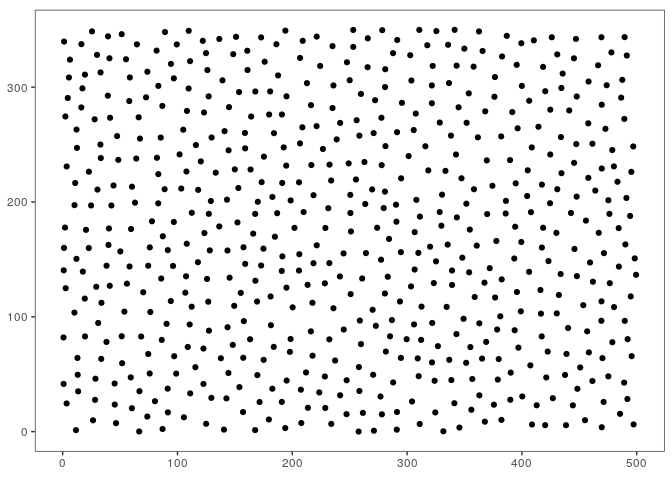
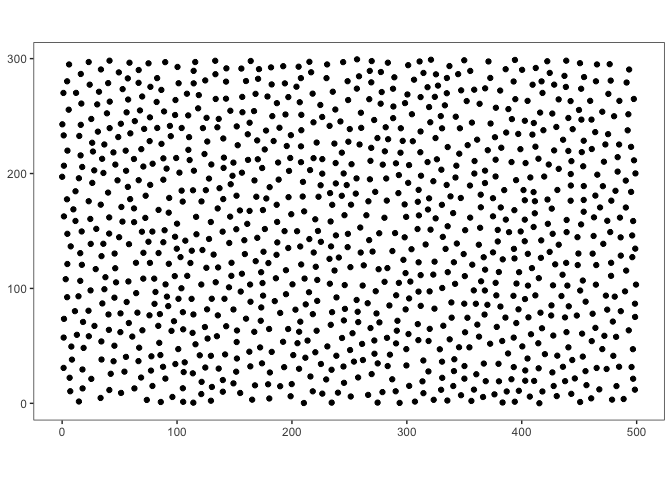
change poisson2d() call parameters to w/h/r instead of ncol/nrow/cellsize

diff --git a/README.md b/README.md
@@ -38,8 +38,8 @@ devtools::install_github("coolbutuseless/poissoned")
 library(poissoned)
 
 set.seed(1)
-points <- poissoned::poisson2d(ncols = 50, nrows = 35, cell_size = 10, verbosity = 1)
-#> poisson2d(): 500x350, minimum distance = 14.14
+points <- poissoned::poisson2d(w = 500, h = 300, r = 10, verbosity = 1)
+#> poisson2d(): 500x300, minimum distance = 10
 
 ggplot(points) +
   geom_point(aes(x, y)) +
@@ -52,32 +52,3 @@ ggplot(points) +
 ```
 
 <img src="man/figures/README-example-1.png" width="100%" />
-
-# Point discovery order
-
-New points are generated through an iterative process. `poisson2d()` can
-return the order in which points were generated using the `keep_idx`
-argument.
-
-It is also possible to pass in the seed point to initialise the process.
-If a seed point is not given, then a random point will be chosen.
-
-``` r
-points <- poissoned::poisson2d(ncols = 120, nrows = 80, cell_size = 10, 
-                                  xinit = 600, yinit = 400,
-                                  keep_idx = TRUE, verbosity = 1)
-#> poisson2d(): 1200x800, minimum distance = 14.14
-
-nrow(points)
-#> [1] 3257
-
-ggplot(points) +
-  geom_point(aes(x, y, colour = idx)) +
-  theme_void() +
-  coord_fixed() +
-  theme(legend.position = 'none') +
-  scale_color_viridis_c() +
-  labs(title = "Seed point at centre. Points coloured by discovery order.")
-```
-
-<img src="man/figures/README-discovery_order-1.png" width="100%" />
